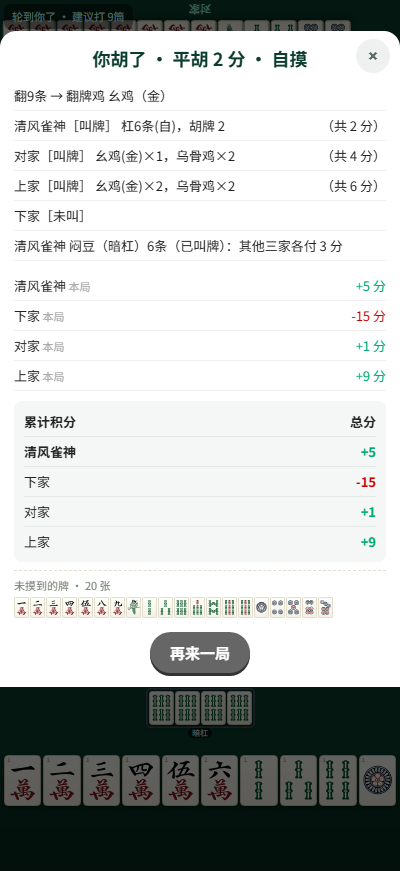
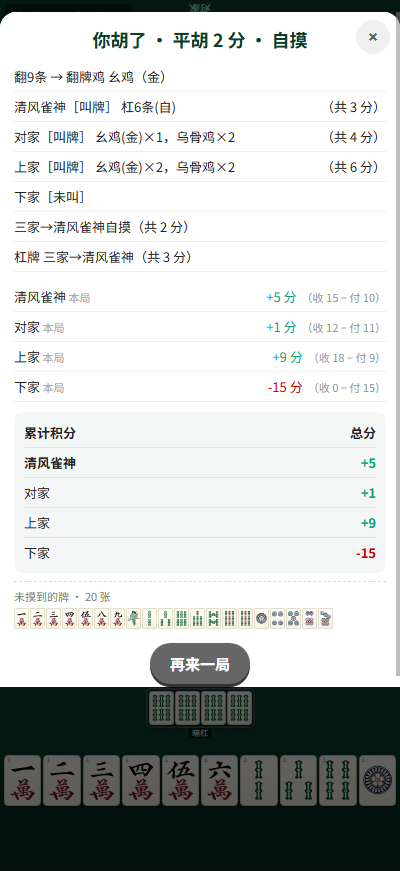
结算窗第五版：四家行去「胡牌N」、共分并入杠分；胡牌与杠各自成独立收付行；侧栏改同序并加「（收X−付Y）」账本

diff --git a/index.html b/index.html
@@ -486,6 +486,9 @@ body.isResult #voiceBtn,body.isDice #voiceBtn,body.isName #voiceBtn{display:none
    矮屏才塞得下、底部按钮不用滚动就够得到。 */
 #result .rMain,#result .rSide{min-width:0}
 #result .rScores{margin-top:10px}
+/* 侧栏每家一行：净额后面那句「（收 X − 付 Y）」在窄屏放不下时折到下一行（不挤掉净额） */
+#result .rScores .line{flex-wrap:wrap}
+#result .rScores .line .bk{color:#999;font-size:11px;white-space:nowrap;margin-left:5px}
 #result .rBtns{flex:1 1 100%;margin-top:14px;text-align:center;display:flex;gap:8px;justify-content:center;flex-wrap:wrap}
 /* 结算窗里的「未摸到的牌」：把牌墙剩下的牌全部翻开，用最小的牌面紧凑排开。
    ⚠ 必须塞进 rSide 那一栏（竖屏在按钮下方、横屏在右栏）：横屏结算窗只排两栏，
@@ -2667,13 +2670,10 @@ function chickenOwnPts(s){return s.rows.reduce((a,r)=>a+(r.keep+r.disc)*r.v,0);}
 /* 鸡分结算。total 传数组 = 真结算；传 null = **只统计不落分**（黄庄用，规则："黄庄豆鸡不算分"）。
    写进 total，并把可直接显示的明细 push 到 lines。
    顺序：① 翻牌（写清"翻到什么、本局的鸡是什么"） → ② 每家鸡的类型/数量 → ③ 常鸡收付 → ④ 冲锋鸡 → ⑤ 责任鸡 */
-function chickenSettle(win, lines, total, burn, tail, huFan){
-  // tail：冲锋鸡 / 责任鸡 的行推到这里（结算窗要把它们排在"豆"之后，见 settle 里的拼接顺序）。
-  //       不传就照旧推给 lines —— 测试脚本直接调 chickenSettle 时仍然只有一个数组。
-  //       ⚠ 用户 2026-09-16 把这两行删掉之后，tail 实际**不再收到任何内容**（接口留着，
-  //          以后要挂新东西不用改调用点）。
-  // huFan：四家各自的**胡牌分**（[0,0,0,0]，可选）—— 四家行的「胡牌 N」与「（共 N 分）」要用。
-  huFan=Array.isArray(huFan)?huFan:[0,0,0,0];
+function chickenSettle(win, lines, total, burn, tail){
+  // tail：冲锋鸡 / 责任鸡 的行推到这里（现在这两行已删、收不到东西了，接口留着）。
+  // ⚠ 用户 2026-09-16 起：**胡牌分不在这里** —— 四家行只写「他名下能收的分（鸡 + 杠）」，
+  //    胡牌单独一行（`上家点炮→下家胡牌（共 N 分）`，见 settle）。
   const out=Array.isArray(tail)?tail:lines;
   const winList=(Array.isArray(win)?win:[win]).filter(p=>typeof p==='number'&&p>=0&&p<4);   // 可能多家同时胡
   const dry=!total;
@@ -2734,7 +2734,7 @@ function chickenSettle(win, lines, total, burn, tail, huFan){
     for(let i=0;i<4;i++){
       const recv=(called[i]&&!isBurned(i))?(3*ownC[i]+sumThrown):0;   // 三家各收自己那份 + 包鸡各一份
       const pay=(sumOwn-ownC[i])+((!called[i]&&!isBurned(i))?thrownC[i]*callList.length:0);
-      total[i]+=recv-pay;
+      total[i]+=recv-pay;bookAdd(i,recv);bookAdd(i,-pay);
     }
   }
   /* ---- ④ 冲锋鸡的「持有者 / 只数 / 分值」**提前算**（用户 2026-09-16）----
@@ -2763,26 +2763,28 @@ function chickenSettle(win, lines, total, burn, tail, huFan){
        flex+space-between 把它**靠右对齐**（见 resultLineHTML）。
      · 他打出去的鸡进了包鸡 → 该行尾巴补一句 `→ 包鸡 各 N 分`（写在**打出那张鸡的那一家自己**这一行里）。
      "钱怎么走"不再单独占一行，方向由侧栏（rSide）的本局净额体现。 */
+  // 这一家的**杠分**（每个豆 3 分）：要并进「（共 N 分）」—— 用户 2026-09-16 的口径，
+  // 照他自己举的例子：下家 `杠9条(自)，1万×2（共 5 分）` = 杠 3 + 翻牌鸡 2。
+  const douPts=p=>((G.melds[p]||[]).filter(m=>m.type==='gang'&&!m.void).length*3);
   lines.push(flipTxt);
   [0,2,3,1].forEach(p=>{
     // 这一家持有的冲锋鸡（牌号列表）—— 传进 chickenCells 是为了把那张牌从常鸡里扣掉、
     // 并在自己的牌号位置上插一项「冲锋鸡×1」（用户 2026-09-16 亲自纠的重复计数）。
     const ck=(chargeHold[p]||[]).map(h=>h.card);
     const seg=[];
-    if(called[p]){                                   // 叫牌家：杠 + 鸡（含冲锋鸡）+ 胡牌
+    if(called[p]){                                   // 叫牌家：杠 + 鸡（含冲锋鸡）
       const dou=douCells(p);               if(dou)seg.push(dou);
       const chk=chickenCells(sur[p],ck);   if(chk)seg.push(chk);
-      const hf=huFan[p]||0;                if(hf)seg.push('胡牌 '+hf);
     }else if(chargeOf[p]){                           // 未叫家：只报他赔出去的那只冲锋鸡
       seg.push('冲锋鸡×'+chargeOf[p]);
     }
     let txt=`${NAMES[p]}［${called[p]?'叫牌':'未叫'}］${seg.length?' '+seg.join('，'):''}`;
     if(thrownC[p])txt+=` → 包鸡 各 ${thrownC[p]} 分`;
-    // 「（共 N 分）」：叫牌家 = 他名下分值的合计；未叫家持有冲锋鸡时是**负数**
-    //   （那笔是他赔出去的，例：`下家［未叫］ 冲锋鸡×1（共 -2 分）`，用户 2026-09-16 给的写法）。
-    //   未叫家没有冲锋鸡时仍然什么都不写（一行只到［未叫］）。
-    if(called[p])txt+=`（共 ${ownC[p]+chargeVal[p]+(huFan[p]||0)} 分）`;
-    else if(chargeOf[p])txt+=`（共 -${chargeVal[p]} 分）`;
+    // 「（共 N 分）」= 这一家**名下能收的分**：鸡（含冲锋鸡/翻牌鸡）+ 杠（每个 3 分）。
+    //   ⚠ 胡牌那几分**不在**这里 —— 它单独一行（`上家点炮→下家胡牌（共 N 分）`，见 settle）。
+    //   未叫家持有冲锋鸡/杠是**负数**（那笔是他赔出去的）：`下家［未叫］ 冲锋鸡×1（共 -2 分）`。
+    if(called[p])txt+=`（共 ${ownC[p]+chargeVal[p]+douPts(p)} 分）`;
+    else if(chargeOf[p])txt+=`（共 -${chargeVal[p]+douPts(p)} 分）`;
     if(isBurned(p))txt+=' · 鸡全烧（热炮）';
     lines.push(txt);
   });
@@ -2804,9 +2806,9 @@ function chickenSettle(win, lines, total, burn, tail, huFan){
       if(called[a]){
         // 付款方 = **其他三家**（含胡牌家！）—— 用户口径："就算胡牌了，该付的照付"。
         const payers=[0,1,2,3].filter(q=>q!==a);
-        if(!dry)payers.forEach(q=>{total[q]-=val;total[a]+=val;});
+        if(!dry)payers.forEach(q=>{total[q]-=val;total[a]+=val;bookAdd(q,-val);bookAdd(a,val);});
     }else if(callList.length){
-      if(!dry)callList.forEach(q=>{total[a]-=val;total[q]+=val;});
+      if(!dry)callList.forEach(q=>{total[a]-=val;total[q]+=val;bookAdd(a,-val);bookAdd(q,val);});
     }
     // 全场无人叫牌 → 不结算（什么都不做）
   });
@@ -2829,7 +2831,7 @@ function chickenSettle(win, lines, total, burn, tail, huFan){
     if(!isRespTile(rp.card))return;
     if(!called[rp.by])return;
     if(called[rp.from])return;
-    if(!dry){total[rp.from]-=1;total[rp.by]+=1;}
+    if(!dry){total[rp.from]-=1;total[rp.by]+=1;bookAdd(rp.from,-1);bookAdd(rp.by,1);}
   });
   return {detail:sur,called:called,fieldChicken:fc};
 }
@@ -2846,7 +2848,7 @@ function hotCannonRepeal(p,lines,total){
     lines.push(`热炮惩罚：${NAMES[p]} 本局刚成的那个豆找不到结算记录 → 只按分数 ×2 处理`);
     return;
   }
-  for(let q=0;q<4;q++)total[q]-=e.d[q];        // 精确反向：那笔豆整体不算
+  for(let q=0;q<4;q++){total[q]-=e.d[q];bookAdd(q,-e.d[q]);}   // 精确反向：那笔豆整体不算（账本一起反）
   lines.push(`热炮惩罚：${NAMES[p]} 本局刚成的那个豆不算 → 撤销「${e.txt}」`);
 }
 /* ===== 豆（杠）的结算 —— 用户口径（2026-09-15 更新）=====
@@ -2888,8 +2890,8 @@ function douSettle(win,from,isQG,lines,total){
         // 杠家叫牌 → 对手付给他
         others.forEach(q=>{d[q]-=DOU;d[p]+=DOU;});
         txt=isPoint
-          ? `${NAMES[p]} ${kind}${cname(m.card)}（已叫牌）：放杠的 ${NAMES[m.from]} 付 ${DOU} 分（另外两家不用给）`
-          : `${NAMES[p]} ${kind}${cname(m.card)}（已叫牌）：其他三家各付 ${DOU} 分`;
+          ? `杠牌 ${NAMES[m.from]}→${NAMES[p]}（共 ${DOU} 分）`
+          : `杠牌 三家→${NAMES[p]}（共 ${DOU} 分）`;
       }else{
         // 杠家未叫牌 → 他**倒赔**给叫牌家（点豆只赔放杠那一家）
         const recv=others.filter(q=>winList.includes(q)||isTing(q));
@@ -2900,14 +2902,24 @@ function douSettle(win,from,isQG,lines,total){
           return;
         }
         recv.forEach(q=>{d[p]-=DOU;d[q]+=DOU;});
-        txt=`${NAMES[p]} ${kind}${cname(m.card)}：他未叫牌 → 倒赔给 ${recv.map(q=>NAMES[q]).join('、')} 各 ${DOU} 分`;
+        txt=`杠牌 ${NAMES[p]}→${recv.map(q=>NAMES[q]).join('、')}（共 ${DOU} 分，他未叫牌要倒赔）`;
       }
       for(let q=0;q<4;q++)total[q]+=d[q];
+      bookDelta(d);
       lines.push(txt);
       G.douLog.push({p:p,card:m.card,paPo:!!m.paPo,from:m.from,d:d.slice(),txt:txt});
     });
   }
 }
+/* 结算账本：只记「每家收了多少 / 付了多少」—— 侧栏那句「（收 X − 付 Y）」用它。
+   ⚠ 它**只影响显示**，真正改钱的永远是 `total`：所有写 total 的地方都要同步 bookAdd / bookDelta，
+      否则侧栏的算式会跟净额对不上（净额取自 total）。
+   ⚠ 模块级变量；每局结算前 bookInit() 一次（settle / endGame 各一次）。 */
+let BOOK=null;
+function bookInit(){BOOK={plus:[0,0,0,0],minus:[0,0,0,0]};}
+function bookAdd(p,v){if(!BOOK||!v)return;if(v>0)BOOK.plus[p]+=v;else BOOK.minus[p]-=v;}
+function bookDelta(d){if(!BOOK)return;for(let p=0;p<4;p++)bookAdd(p,d[p]);}
+
 /* win 既可以是单个座位号，也可以是**座位号数组**（一炮双响/一炮多响：一张牌被多家同时胡）。
    多家时：每家各算自己的牌型番、放炮者**分别各赔**；豆 / 鸡 / 开局跟只结算一次。 */
 function settle(win,from,zimo,hotCannon){
@@ -2920,6 +2932,7 @@ function settle(win,from,zimo,hotCannon){
   G.chickenCard=chicken;
   G.fieldChicken=chicken;
   const lines=[],total=[0,0,0,0];
+  bookInit();                       // 账本清空（侧栏「（收 X − 付 Y）」用）
   const isZimo=!!zimo;
   const isQG=!!G.qiangGang;
   const qgMul=isQG?4:1;
@@ -2968,10 +2981,21 @@ function settle(win,from,zimo,hotCannon){
     : `${winner===PLAYER?'你胡了':NAMES[winner]+'胡了'} · ${info[0].patName} ${info[0].fan} 分 · ${howTxt}`;
   // 多家胡：每家自己的牌型 / 分值各占一行（标题那行放不下，且各家牌型可能不同）
   if(multi)info.forEach(x=>lines.push(`${NAMES[x.p]}：${x.patName} ${x.fan} 分`));
-  // ---- 转账：每家各赔各的番（**只算钱、不出行** —— 信息已在第一行与侧栏净额里）----
+  /* ---- 胡牌收付：一行写清「谁付给谁、多少分」（用户 2026-09-16 定的写法）----
+     · 点炮：`上家点炮→下家胡牌（共 1 分）`
+     · 自摸：`三家→下家自摸（共 2 分）`
+     · 抢杠：`上家补杠被抢→下家胡牌（共 4 分）`｜热炮：`上家热炮（杠上炮）→下家胡牌（共 N 分）`
+     一炮双响 / 多响 → 每家各一行。这一段**排在四家行之后、杠行之前**。 */
+  const huLines=[];
   info.forEach(x=>{
-    if(isZimo){for(let p=0;p<4;p++)if(p!==x.p){total[p]-=x.fan;total[x.p]+=x.fan;}}
-    else{total[from]-=x.fan;total[x.p]+=x.fan;}
+    if(isZimo){
+      for(let p=0;p<4;p++)if(p!==x.p){total[p]-=x.fan;total[x.p]+=x.fan;bookAdd(p,-x.fan);bookAdd(x.p,x.fan);}
+      huLines.push(`三家→${NAMES[x.p]}自摸（共 ${x.fan} 分）`);
+    }else{
+      total[from]-=x.fan;total[x.p]+=x.fan;bookAdd(from,-x.fan);bookAdd(x.p,x.fan);
+      const how=isQG?`${NAMES[from]}补杠被抢`:(isHC?`${NAMES[from]}热炮（杠上炮）`:`${NAMES[from]}点炮`);
+      huLines.push(`${how}→${NAMES[x.p]}胡牌（共 ${x.fan} 分）`);
+    }
   });
   // 热炮附加惩罚：点炮者「杠前成的那个豆不算」—— 必须排在豆结算之后
   // （热炮撤销要用 douSettle 记下的 G.douLog 精确反向）
@@ -2987,17 +3011,14 @@ function settle(win,from,zimo,hotCannon){
   if(isHC)hotCannonRepeal(from,douLines,total);   // ⚠ 必须在豆结算之后，见函数头注释
   // 开局跟：三家都跟打同一张 → 跟打的每家从**庄家**收 4 分（庄家共付 12）。
   if(G.openFollow&&G.openFollow.ok){
-    [0,1,2,3].forEach(q=>{if(q!==G.dealer){total[G.dealer]-=OPEN_FOLLOW_FAN;total[q]+=OPEN_FOLLOW_FAN;}});
+    [0,1,2,3].forEach(q=>{if(q!==G.dealer){total[G.dealer]-=OPEN_FOLLOW_FAN;total[q]+=OPEN_FOLLOW_FAN;bookAdd(G.dealer,-OPEN_FOLLOW_FAN);bookAdd(q,OPEN_FOLLOW_FAN);}});
     douLines.push(`开局跟：庄家 ${NAMES[G.dealer]} 首张 ${cname(G.openFollow.card)}，其余三家都跟打 → 三家各收 ${OPEN_FOLLOW_FAN} 分（庄家付）`);
   }
   // ---- 捉鸡结算：鸡牌身份 / 归属 / 收付全在 chickenSettle 里（含规则①~⑤，见上方长注释）----
   // 热炮（杠上炮）时把点炮者传给鸡结算 → 他的鸡全部不算
-  // 四家行要写「胡牌 N」、还要把它并进「（共 N 分）」→ 把各家的胡牌分整理成 [0,0,0,0] 传下去
-  // （一炮双响时同一家只可能胡一次，仍用 += 兜底）
-  const huFan=[0,0,0,0];
-  info.forEach(x=>{huFan[x.p]+=x.fan;});
-  const chRes=chickenSettle(winners,headLines,total,isHC?[from]:null,tailLines,huFan);
-  lines.push(...headLines,...douLines,...tailLines);
+  const chRes=chickenSettle(winners,headLines,total,isHC?[from]:null,tailLines);
+  // 显示顺序：四家行（headLines）→ 胡牌收付（huLines）→ 杠（douLines）→ 冲锋鸡/责任鸡（tailLines）
+  lines.push(...headLines,...huLines,...douLines,...tailLines);
   const det=chRes.detail;
   const chickens=det.map(s=>chickenOwnPts(s));
   SFX.play('chicken',{delay:0.75});   // 翻鸡牌：排在"胡牌音"之后（见 doHu 的时序注释）
@@ -3066,7 +3087,7 @@ function chajiaoSettle(lines,total){
   if(tingL.length&&noL.length){
     tingL.forEach(t=>{
       const pf=tingFan(t);
-      noL.forEach(n=>{total[n]-=pf.fan;total[t]+=pf.fan;});
+      noL.forEach(n=>{total[n]-=pf.fan;total[t]+=pf.fan;bookAdd(n,-pf.fan);bookAdd(t,pf.fan);});
       lines.push(`${NAMES[t]} 叫牌（${pf.name} ${pf.fan} 分）：未叫牌的 ${noL.map(n=>NAMES[n]).join('、')} 各赔 ${pf.fan} 分`);
     });
   }else if(!tingL.length){
@@ -3085,6 +3106,7 @@ function endGame(){
   const lines=[],total=[0,0,0,0];
   /* 行顺序与"有人胡牌"那局保持一致（用户 2026-09-16 定的结构）：翻牌 + 四家在前，查叫在后。
      ⚠ 查叫要先算出来（它给出 tingL、并把赔分记进 total），但**行**可以后拼 —— 所以攒两个数组。 */
+  bookInit();                       // 账本清空（侧栏「（收 X − 付 Y）」用）
   const chLines=[],chickenLines=[];
   const ch=chajiaoSettle(chLines,total);
   // 黄庄也要写出各家的鸡类型/数量（规则要求）；total 传 null = **只统计不落分**
@@ -3125,8 +3147,9 @@ function endGame(){
   let main='';
   lines.forEach(l=>main+=resultLineHTML(l));
   let side=`<div class="rScores">`;
-  for(let p=0;p<4;p++){const v=total[p];
-    side+=`<div class="line"><span>${NAMES[p]}${tingL.includes(p)?' <span style="color:#0a7">叫牌</span>':' <span style="color:#aaa">未叫</span>'}</span><span style="color:${v>=0?'#0a7':'#c00'}">${v>=0?'+':''}${v} 分</span></div>`;}
+  // 顺序 = 自己 → 对家 → 上家 → 下家（与上面四家行同一顺序）；净额后面挂「（收 X − 付 Y）」
+  [0,2,3,1].forEach(p=>{const v=total[p];
+    side+=`<div class="line"><span>${NAMES[p]}${tingL.includes(p)?' <span style="color:#0a7">叫牌</span>':' <span style="color:#aaa">未叫</span>'}</span><span><span style="color:${v>=0?'#0a7':'#c00'}">${v>=0?'+':''}${v} 分</span>${bookSpan(p)}</span></div>`;});
   side+=`</div><div class="scoreSummary">${scoreSummaryHtml()}</div>`;
   const rBtns=`<div class="rBtns"><button class="gray" onclick="closeResult()">再来一局</button></div>`;
   setResultBox(`<h2>黄庄 · 无人胡牌</h2><div class="rMain">${main}</div><div class="rSide">${side}</div>`+rBtns);
@@ -3137,10 +3160,19 @@ function endGame(){
 }
 
 // 累计积分表（结算弹窗用）
+/* 侧栏每家净额后面那句「（收 X − 付 Y）」—— 数据来自结算账本 BOOK（见 bookAdd）。
+   独立成一个 span：窄屏放不下时它会自己折到下一行（.rScores .line 加了 flex-wrap）。 */
+function bookSpan(p){
+  if(!BOOK)return '';
+  const a=BOOK.plus[p],b=BOOK.minus[p];
+  if(!a&&!b)return '';
+  return `<span class="bk">（收 ${a} − 付 ${b}）</span>`;
+}
+// 累计积分：顺序也跟上面四家行一致（自己 → 对家 → 上家 → 下家）
 function scoreSummaryHtml(){
   return `<div class="line" style="font-weight:700"><span>累计积分</span><span>总分</span></div>`
-    +NAMES.map((n,p)=>{
-      const v=G.scores[p];
+    +[0,2,3,1].map(p=>{
+      const n=NAMES[p],v=G.scores[p];
       return `<div class="line"><span>${p===PLAYER?'<b>'+n+'</b>':n}</span><span style="color:${v>0?'#0a7':v<0?'#c00':'#666'};font-weight:700">${v>0?'+':''}${v}</span></div>`;
     }).join('');
 }
@@ -3187,7 +3219,7 @@ function showResult(res){
   let main='';
   res.lines.forEach(l=>main+=resultLineHTML(l));
   let side=`<div class="rScores">`;
-  for(let p=0;p<4;p++){const v=res.total[p];side+=`<div class="line"><span>${NAMES[p]}<span style="color:#aaa;font-size:11px"> 本局</span></span><span style="color:${v>=0?'#0a7':'#c00'}">${v>=0?'+':''}${v} 分</span></div>`;}
+  [0,2,3,1].forEach(p=>{const v=res.total[p];side+=`<div class="line"><span>${NAMES[p]}<span style="color:#aaa;font-size:11px"> 本局</span></span><span><span style="color:${v>=0?'#0a7':'#c00'}">${v>=0?'+':''}${v} 分</span>${bookSpan(p)}</span></div>`;});
   side+=`</div><div class="scoreSummary">${scoreSummaryHtml()}</div>`;
   // 完局后三家手牌已亮正面；这里给一个「点牌桌看牌」的入口，
   // 点一下把结算窗缩到角落，四家手牌一览无遗。

diff --git a/README.md b/README.md
@@ -334,27 +334,38 @@
 
 ## ⑦ 结算明细怎么读
 
-结算窗**前六行**格式固定，顺序是：**谁胡了 → 翻牌 → 自己 → 对家 → 上家 → 下家**。
+结算窗的行顺序固定：**谁胡了 → 翻牌 → 自己 → 对家 → 上家 → 下家 → 胡牌收付 → 杠**，
+右边那栏是四家的本局净额与累计积分（同样是 **自己 → 对家 → 上家 → 下家**）。
 
 ```
 你胡了 · 平胡 2 分 · 自摸                第 1 行：谁胡了 · 牌型几分 · 谁点炮（自摸就写「自摸」）
 翻9条 → 翻牌鸡 幺鸡（金）                第 2 行：翻到什么 → 翻牌鸡是哪张（金鸡多一个「（金）」）
-清风雀神［叫牌］ 杠6条(自)，胡牌 2        （共 2 分）   第 3~6 行：自己 → 对家 → 上家 → 下家
-对家［叫牌］ 幺鸡(金)×1，乌骨鸡×2        （共 4 分）      行尾「（共 N 分）」右对齐
-上家［叫牌］ 幺鸡(金)×2，乌骨鸡×2        （共 6 分）
+清风雀神［叫牌］ 杠6条(自)                （共 3 分）   第 3~6 行：自己 → 对家 → 上家 → 下家
+对家［叫牌］ 幺鸡(金)×1，乌骨鸡×2         （共 4 分）      行尾「（共 N 分）」右对齐
+上家［叫牌］ 幺鸡(金)×2，乌骨鸡×2         （共 6 分）
 下家［未叫］
-豆：… 三家各付 3 分                      再往下：豆 · 未摸到的牌 · 本局 / 累计
+三家→清风雀神自摸（共 2 分）             胡牌收付：谁付给谁 · 多少分
+杠牌 三家→清风雀神（共 3 分）            杠的收付：谁付给谁 · 每个豆 3 分
+清风雀神 本局 +5 分（收 15 − 付 10）     右栏：本局净额 + 收付算式
+对家 本局 +1 分（收 12 − 付 11）
+上家 本局 +9 分（收 18 − 付 9）
+下家 本局 -15 分（收 0 − 付 15）
+累计积分 / 未摸到的牌 / 再来一局
 ```
 
-读的时候只要盯四处：
+读的时候盯五处：
 
-1. **［叫牌］/［未叫］** —— 只有叫牌家能收；未叫家只付不收，所以他那一行没有「（共 N 分）」。
-2. **叫牌家那一行 = 他的杠 + 他的鸡 + 冲锋鸡 + 胡牌**，项之间用「，」分隔：
+1. **［叫牌］/［未叫］** —— 只有叫牌家能收；未叫家只付不收，所以他那一行通常只到「［未叫］」。
+2. **叫牌家那一行 = 他的杠 + 他的鸡**，项之间用「，」分隔：
    - **杠**：`杠9万(自)` —— 括号里是**谁放的**（自 / 对 / 上 / 下）。
-   - **鸡**：`幺鸡×2`、`乌骨鸡×1`；金的那张写 `幺鸡(金)×2`；**翻牌鸡直接写牌名**
-     （`5筒×1` —— 第 2 行已经说了翻牌鸡是哪张）。张数是**手里 + 副露 + 自己牌河的总数**。
-   - **冲锋鸡**：`冲锋鸡×1`；**胡牌**：`胡牌 2`。
-3. **行尾的「（共 N 分）」**（右对齐）—— 这一家上面那些牌与胡牌的**分值合计**（按每张的单价算，
-   不乘家数）。**它不是本局净额** —— 谁收谁付看侧栏的「本局 ±N」。
-4. **包鸡** —— 未叫家打出的 幺鸡 / 8筒 要赔给每个叫牌家，写在他**自己那一行**的尾巴上：
-   `→ 包鸡 各 N 分`。
+   - **鸡**：`幺鸡×2`、`乌骨鸡×1`；金的那张写 `幺鸡(金)×2`；**翻牌鸡直接写牌名**（`5筒×1`）；
+     **冲锋鸡**写 `冲锋鸡×1`。张数是**手里 + 副露 + 自己牌河的总数**。
+3. **行尾「（共 N 分）」（右对齐）** —— 这一家**名下能收的分** = 鸡分 + 杠分（每个豆 3 分）。
+   胡牌那几分**不在这里**（见下一条）；未叫家持有冲锋鸡时是负数（那是他赔出去的）。
+4. **胡牌收付行** —— `上家点炮→下家胡牌（共 1 分）`；自摸写 `三家→X自摸（共 2 分）`；
+   抢杠 / 热炮把方式写在箭头左边。
+5. **杠的收付行** —— `杠牌 三家→X（共 3 分）` 是自杠（其他三家各付 3）、
+   `杠牌 上家→X（共 3 分）` 是点豆（只有放杠那家付）；杠家没叫牌时反过来倒赔。
+
+右栏每家后面的 **`（收 X − 付 Y）`** 是这一局他所有收入与付出的合计 ——
+**收 − 付 = 本局净额**，一笔一笔都对得上；窄屏放不下时会折到下一行。
